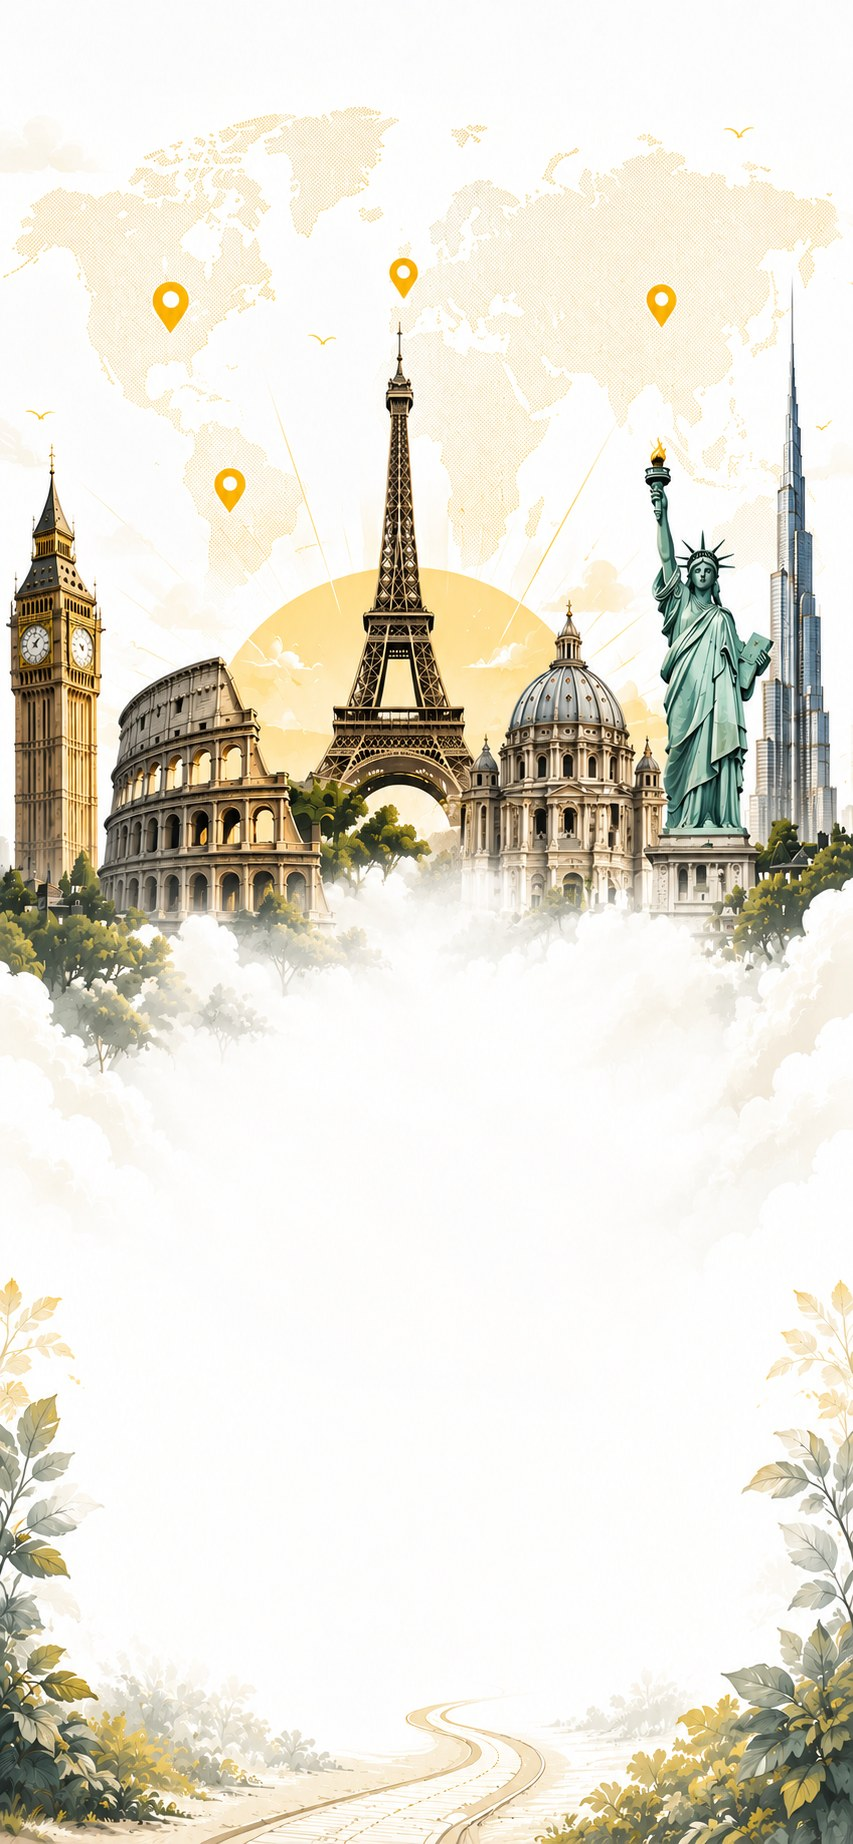
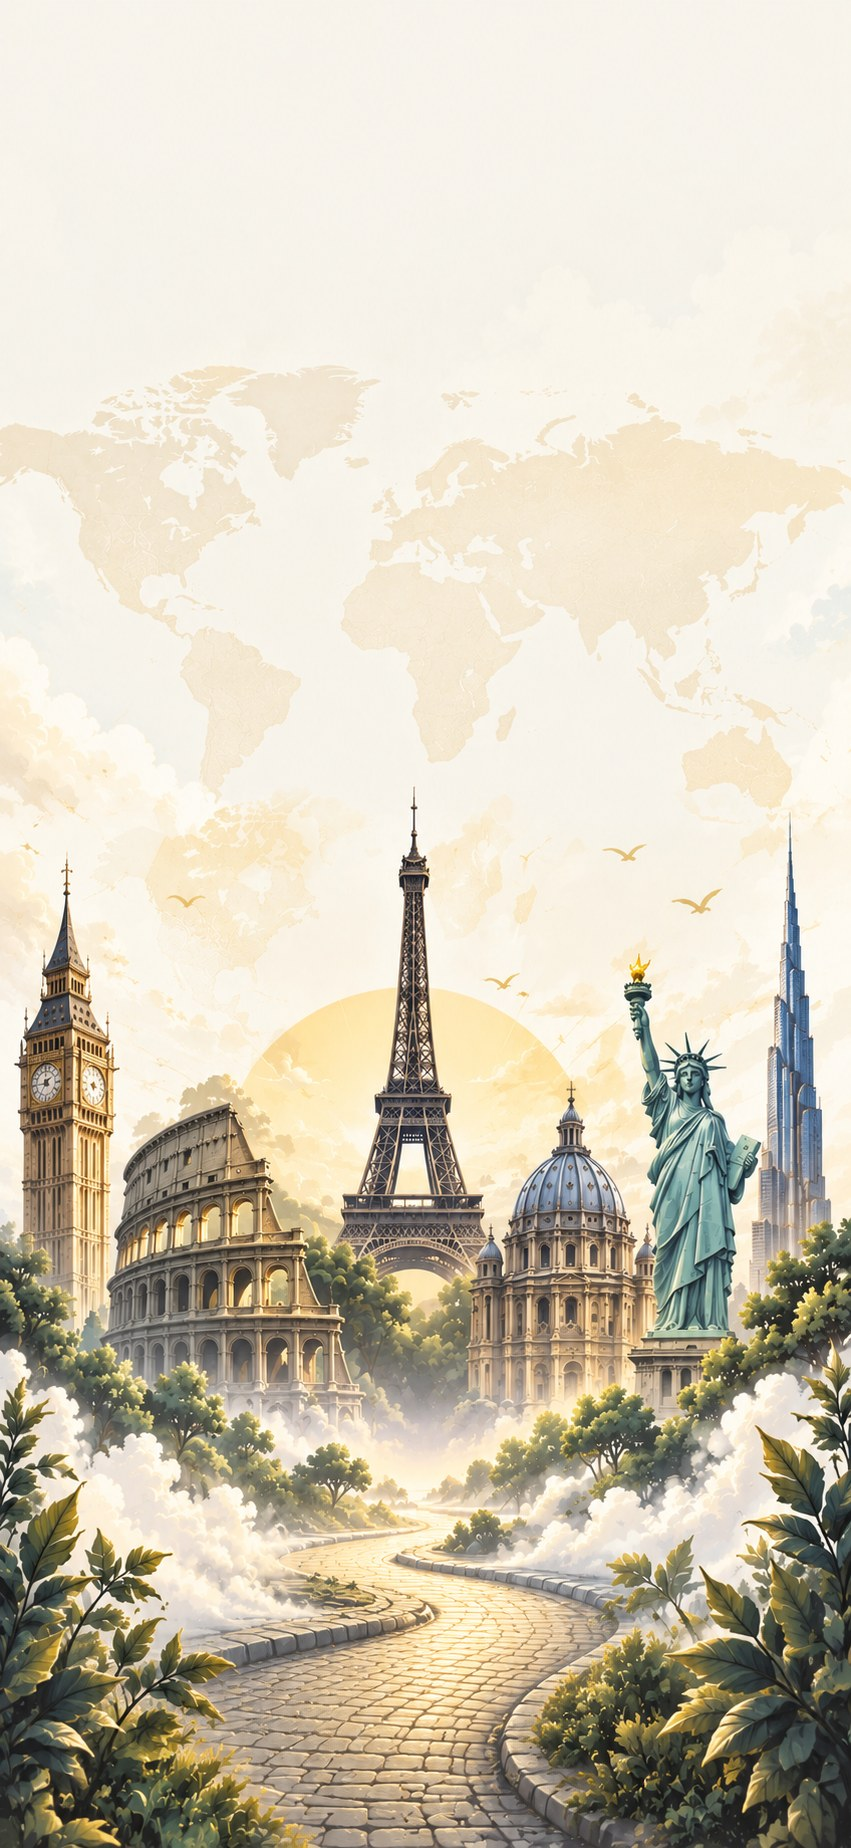
style(light-mode): warm the light palette, lengthen the splash
Light mode read as clinical rather than cream, from three separate
sources: the card colour was pure white (my call in the spec, and the
wrong one beside a warm background), the heavy scrim ran to 0.80 sand
and bleached the artwork away in the lower half, and two cards in the
Explore tab hardcoded white instead of asking the theme.

Ink on sand has enormous contrast headroom — roughly 10% luminance
against 94% — so the heavy veil was protecting nothing it needed to.

The splash now runs three seconds. That is two numbers, not one: the
animation's own duration and the fixed dismissal timer in main.dart,
which knows nothing about it. Moving only one would either cut the pin
off mid-drop or leave the screen sitting still.

diff --git a/lib/widgets/passim_background.dart b/lib/widgets/passim_background.dart
@@ -81,12 +81,13 @@ BoxDecoration passimScrim(BuildContext context,
     {Scrim strength = Scrim.heavy}) {
   final dark = Theme.of(context).brightness == Brightness.dark;
   final (top, bottom) = switch (strength) {
-    // Light mode needs a heavier veil than dark: sand over a bright photo
-    // separates less than navy does, so the same alpha would leave text
-    // sitting on texture. Dark-mode values are untouched; the light-mode
-    // values apply roughly the same bump [Scrim.heavy] already uses.
+    // Light mode needs more veil than dark — sand over a bright photo
+    // separates less than navy does — but the heavy value was far too much:
+    // ink on sand has enormous contrast headroom (roughly 10% luminance
+    // against 94%), so 0.80 at the bottom was bleaching the artwork away
+    // rather than protecting anything. Dark-mode values are untouched.
     Scrim.light => dark ? (0.05, 0.30) : (0.25, 0.48),
-    Scrim.heavy => dark ? (0.25, 0.62) : (0.45, 0.80),
+    Scrim.heavy => dark ? (0.25, 0.62) : (0.20, 0.55),
   };
   final base = dark ? PassimColors.ink : PassimColors.sand;
   return BoxDecoration(

diff --git a/lib/screens/tabs/explore_tab.dart b/lib/screens/tabs/explore_tab.dart
@@ -151,7 +151,7 @@ class _ExploreTabState extends State<ExploreTab> with WidgetsBindingObserver {
                       decoration: BoxDecoration(
                         color: Theme.of(context).brightness == Brightness.dark
                             ? PassimColors.surface
-                            : Colors.white,
+                            : PassimColors.card,
                         borderRadius: BorderRadius.circular(16),
                       ),
                       child: Center(
@@ -374,7 +374,7 @@ class _NotificationCard extends StatelessWidget {
       margin: const EdgeInsets.only(bottom: 10),
       padding: const EdgeInsets.all(14),
       decoration: BoxDecoration(
-        color: dark ? PassimColors.surface : Colors.white,
+        color: dark ? PassimColors.surface : PassimColors.card,
         borderRadius: BorderRadius.circular(16),
       ),
       child: Row(

diff --git a/lib/theme/dyk_theme.dart b/lib/theme/dyk_theme.dart
@@ -32,9 +32,12 @@ class PassimColors {
   /// Anything still literal is therefore unreviewed.
   static const onPhoto = Colors.white;
 
-  /// Card and sheet surface in light mode. Pure white against sand gives the
-  /// separation that a tinted card would lose.
-  static const card = Color(0xFFFFFFFF);
+  /// Card and sheet surface in light mode.
+  ///
+  /// Warm off-white rather than pure white: it still lifts off [sand], but
+  /// pure white beside a cream background reads as clinical — the palette is
+  /// warm everywhere else and the cards were the one place breaking it.
+  static const card = Color(0xFFFDFAF0);
 
   // Mapbox style layers take raw ARGB ints rather than [Color], so the same
   // palette is mirrored here. Keep the pairs in sync.

diff --git a/lib/main.dart b/lib/main.dart
@@ -196,8 +196,11 @@ class _DykAppState extends State<DykApp> {
     _startForegroundPresence();
     // Language switch → re-fetch content so translations apply immediately.
     I18n.instance.addListener(_onLanguageChanged);
-    // Branded splash for a moment on launch.
-    Future.delayed(const Duration(milliseconds: 1900), () {
+    // Branded splash on launch. This has to outlast the splash's own 2200ms
+    // entrance animation or the pin is cut off mid-drop — the two numbers
+    // only make sense together, and three seconds is the ceiling: a splash is
+    // charming on the first launch and slow on the fiftieth.
+    Future.delayed(const Duration(milliseconds: 3000), () {
       if (mounted) setState(() => _booting = false);
     });
   }

diff --git a/lib/screens/splash_screen.dart b/lib/screens/splash_screen.dart
@@ -38,7 +38,7 @@ class _SplashScreenState extends State<SplashScreen>
 
     _entrance = AnimationController(
       vsync: this,
-      duration: const Duration(milliseconds: 1500),
+      duration: const Duration(milliseconds: 2200),
     );
 
     // Fall accelerates (easeInCubic) — gravity, not a glide. Landing is at

diff --git a/tool/prepare_light_assets.py b/tool/prepare_light_assets.py
@@ -8,7 +8,7 @@ from PIL import Image
 
 SRC_DARK = "assets/images/passim_logo.png"
 SRC_LIGHT = "design/Passim_logo_bluetext.png"
-SRC_BG = "design/Background.png"
+SRC_BG = "design/Passim_light_back.png"
 
 
 def split_row(path):
